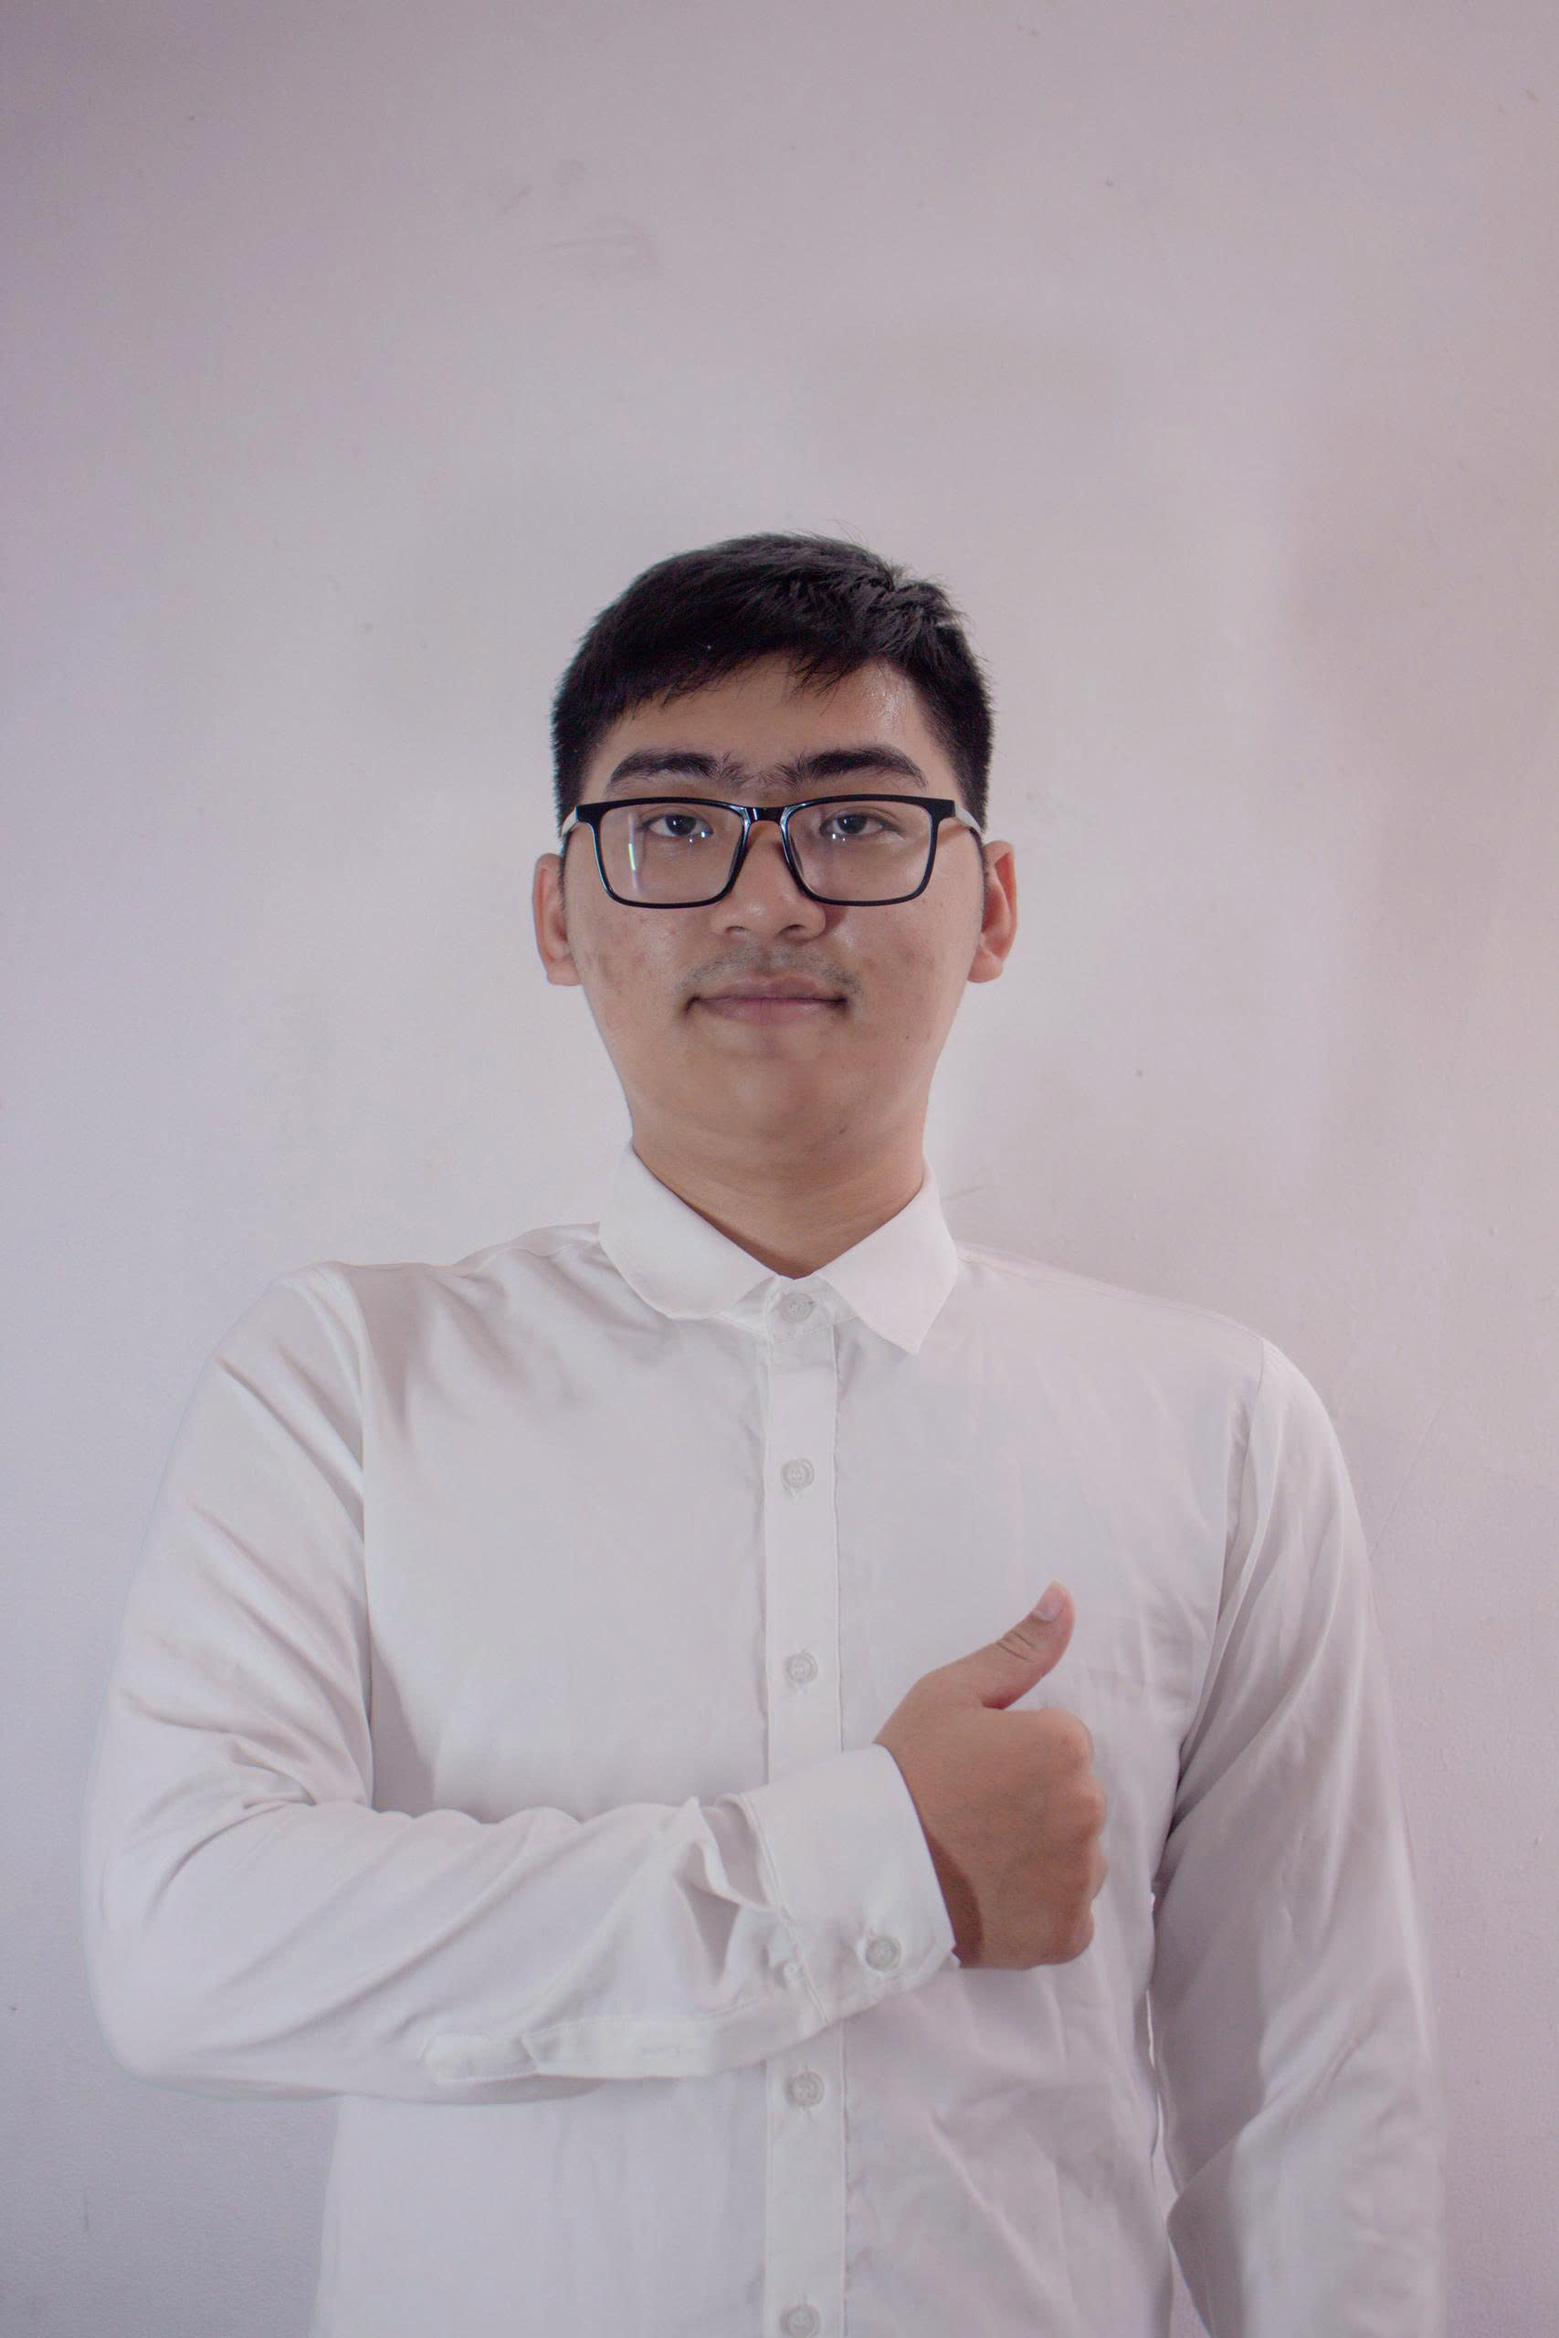
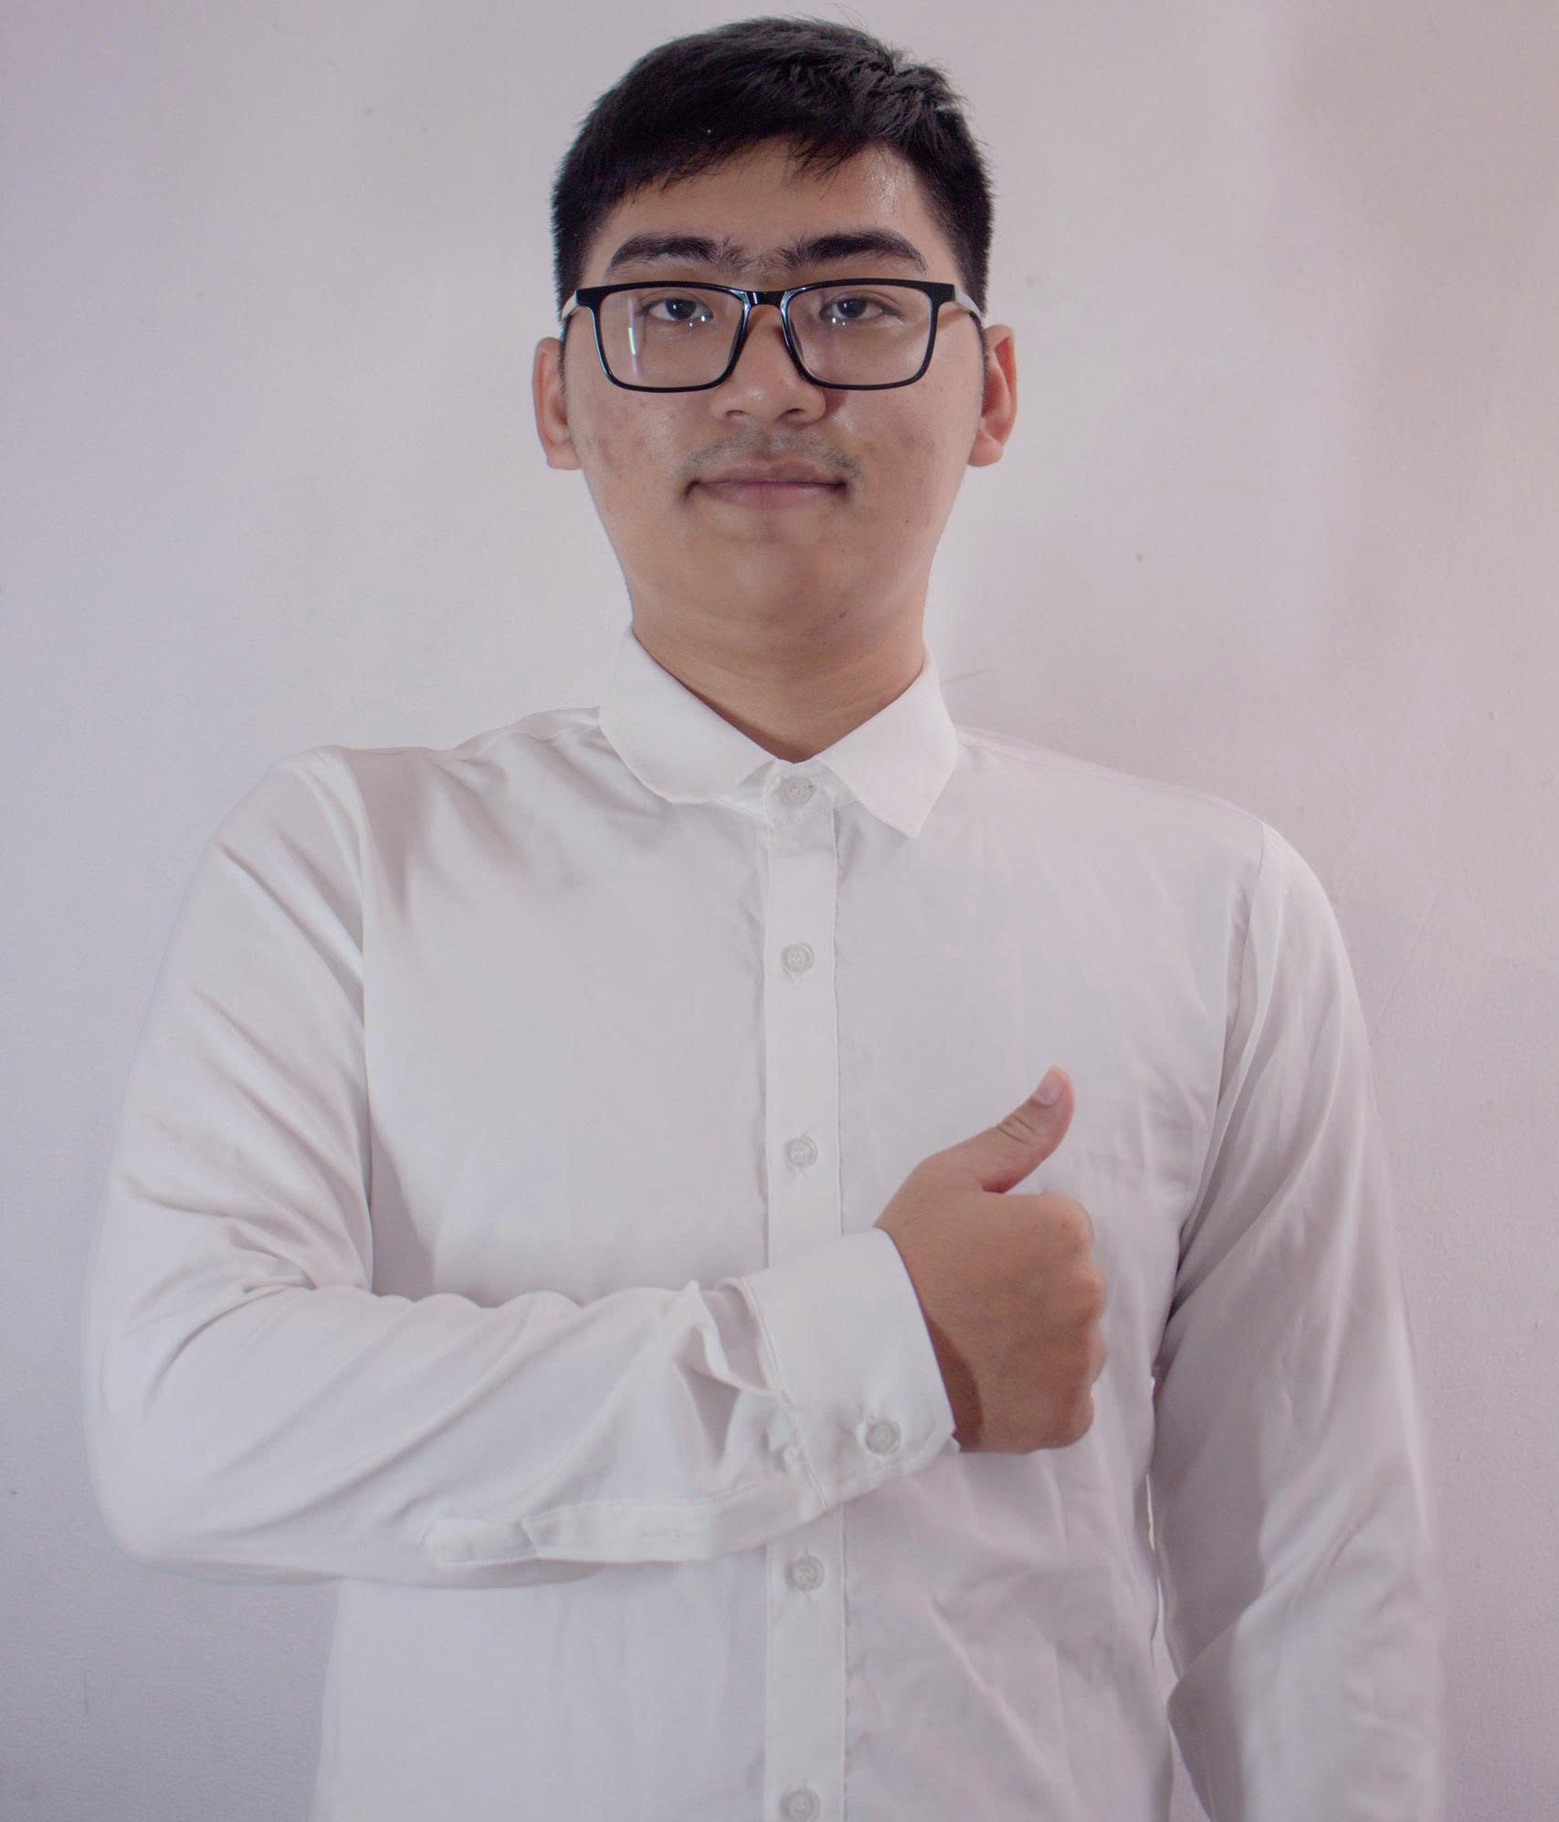
Update header background to solid white

diff --git a/index.html b/index.html
@@ -76,7 +76,7 @@
             <h2 class="section-title">Về Tôi</h2>
             <div class="about-content">
                 <div class="about-left">
-                    <img src="images/banthan/giao dien .jpg" alt="Ảnh về tôi" class="about-img">
+                    <img src="images/banthan/giao dien nguong mat .jpg" alt="Ảnh về tôi" class="about-img">
                 </div>
                 <div class="about-right">
                     <h3>Lập Trình Viên - Công Nghệ Phần Mềm</h3>

diff --git a/css/style.css b/css/style.css
@@ -28,7 +28,7 @@ body {
     width: 100%;
     top: 0;
     z-index: 1000;
-    background: rgba(255, 255, 255, 0.95);
+    background: #ffffff;
     box-shadow: 0 4px 15px rgba(0,0,0,0.12);
     backdrop-filter: blur(15px);
     -webkit-backdrop-filter: blur(15px);
